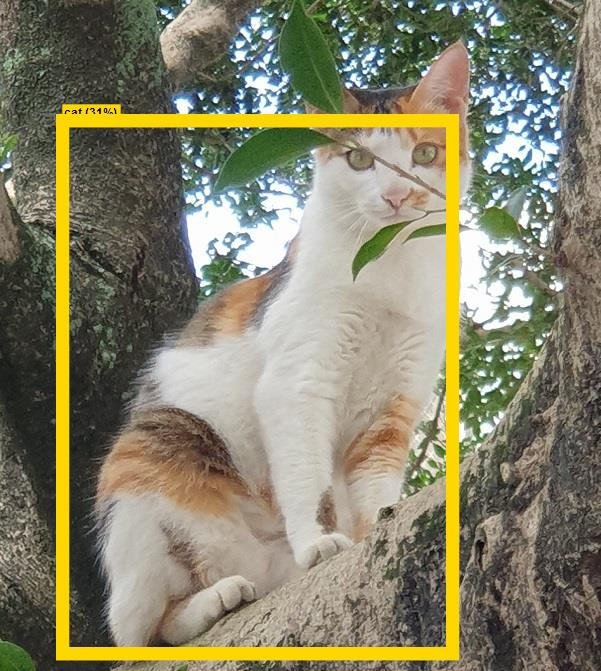
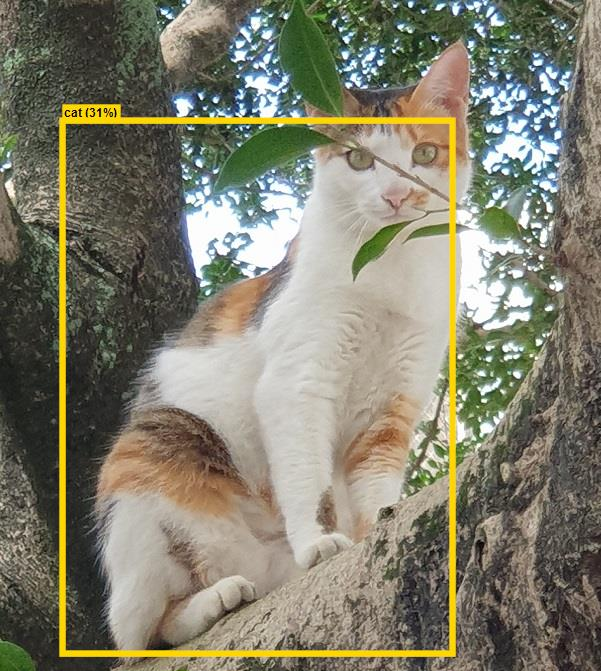
update

Changed region(s): [[0.0899, 0.149, 0.7787, 1.0]]

diff --git a/ObjectDetection/Program.cs b/ObjectDetection/Program.cs
@@ -95,7 +95,7 @@ namespace ObjectDetection
                     SolidBrush fontBrush = new SolidBrush(Color.Black);
                     Point atPoint = new Point((int)x, (int)y - (int)size.Height - 1);
 
-                    Pen pen = new Pen(box.BoxColor, 13.2f);
+                    Pen pen = new Pen(box.BoxColor, 6.2f);
                     SolidBrush colorBrush = new SolidBrush(box.BoxColor);
 
                     thumbnailGraphic.FillRectangle(colorBrush, (int)x, (int)(y - size.Height - 1), (int)size.Width, (int)size.Height);
